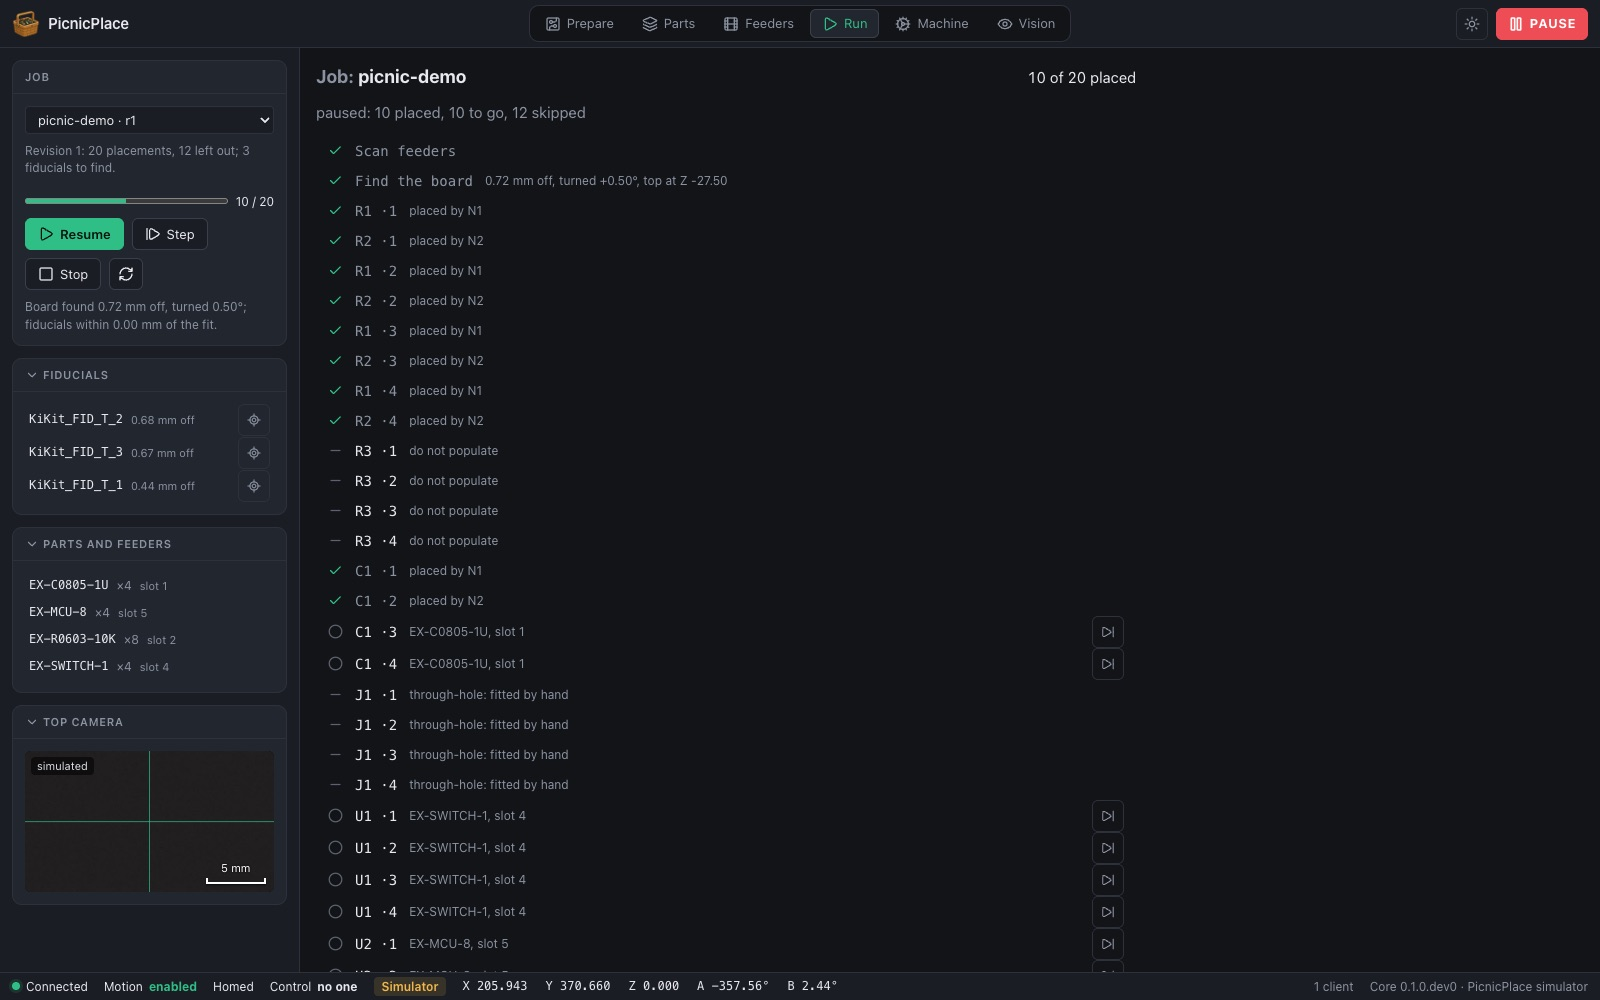
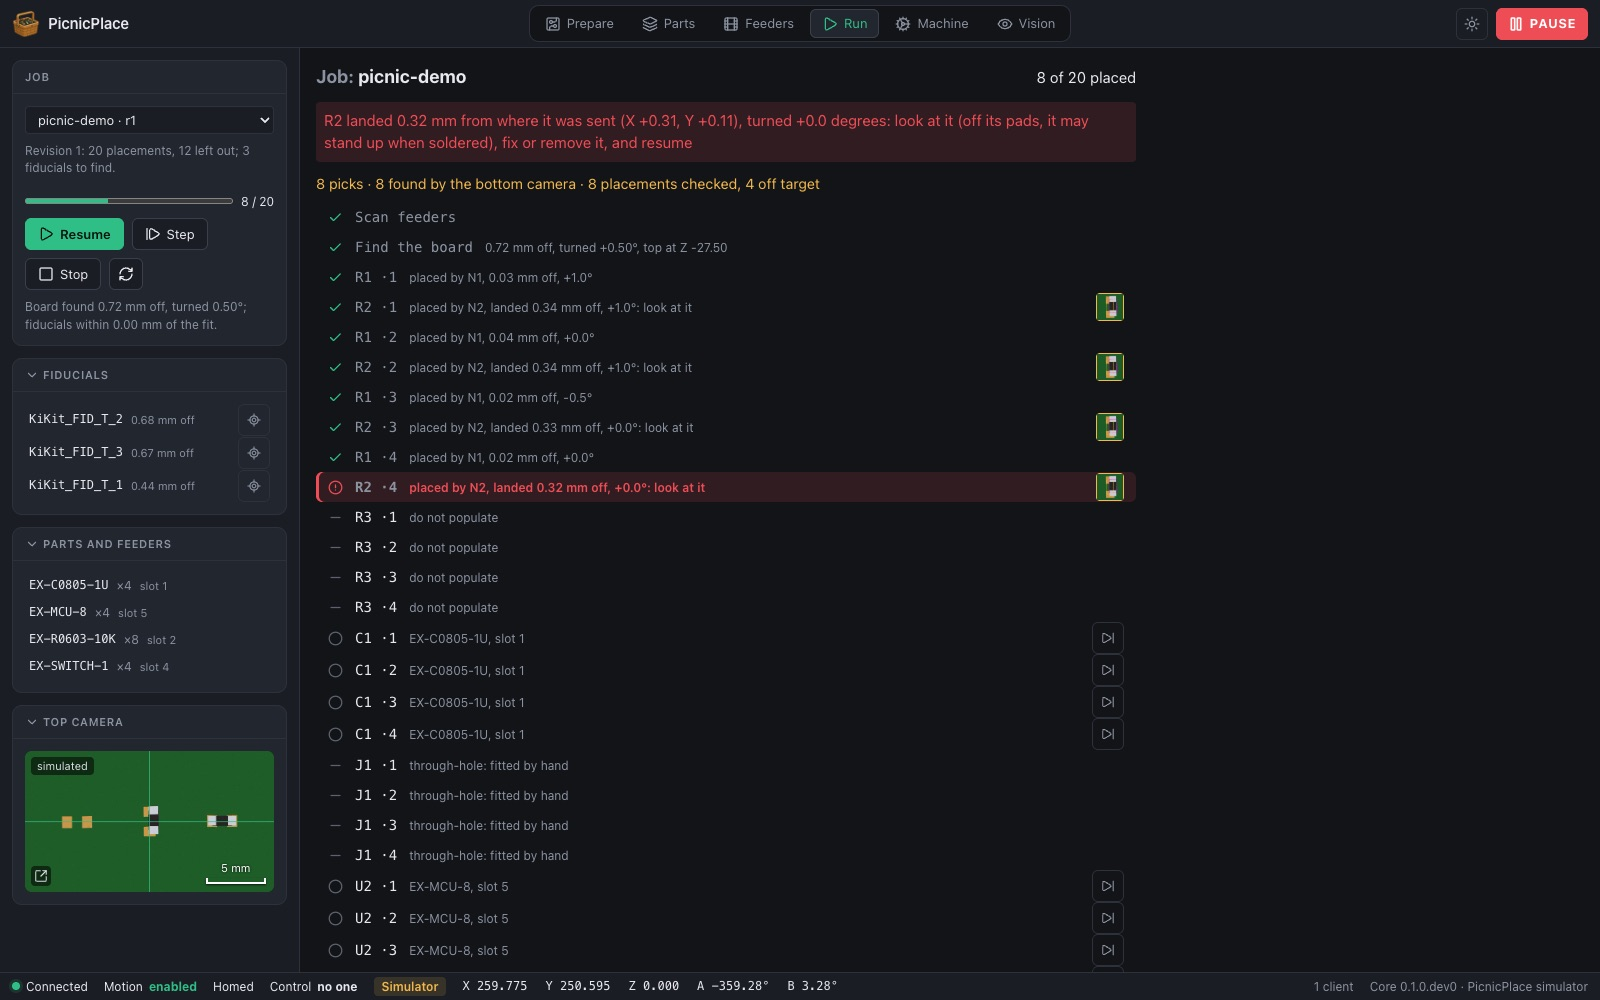
Docs: pictures of training, placement checks, and run statistics
A new picture of the Run workspace, paused on a part the top camera found
off its target, with the run's statistics; the Trained parts panel's
approval step in the bring-up guide; and a real placement check from a
LumenPnP, cropped to the one part. The test board page says which steps of
a test work today.

diff --git a/docs/hardware/test-board.md b/docs/hardware/test-board.md
@@ -75,21 +75,35 @@ top camera's light.
 
 ## A test, step by step
 
-All planned:
+Steps 1, 2 and 5 work today, and step 3 in part; the rest is planned.
 
 1. Lay strips of clear double-sided tape over the targets, and load the board into the
    datum's corner. The tape must be clear, so the camera sees the rings through it, and
    it adds its thickness (about 0.1 mm) to the board's.
-2. Run the test board's job like any other, with its parts on feeders, strips or trays.
-3. **Inspect placements:** the top camera visits each target. In one frame it finds the
-   part's body and the ring around it, and measures the part's offset and turn from the
-   ring. Part and ring are a few millimeters apart in the same image, so neither the
-   gantry's position nor the camera's scale enters the measurement.
-4. The report gives each part's offset and turn, the spread for each nozzle, and how the
-   error depends on the part's angle and its place on the board. It is kept with the run
-   and sent with a flight recording.
+2. Run the test board's job like any other, with its parts on feeders, strips or trays,
+   and **Check each part with the top camera once placed** ticked.
+3. **Inspect placements.** Today, the top camera looks at each two-terminal chip as soon
+   as it is placed and measures how far it landed from where it was sent, and the run
+   pauses on one more than 0.25 mm off or turned more than 10°. That measures from where
+   the machine thinks the target is, so it includes the gantry's and the camera's errors,
+   and across a chip's width it can be some 0.1 mm off, as the part can slide over the
+   pads in the picture. Planned: measuring each part from the copper ring around it. In
+   one frame the camera finds the part's body and the ring, a few millimeters apart, so
+   neither the gantry's position nor the camera's scale enters the measurement, and
+   ICs and QFNs, whose pads the part hides, are measured too.
+4. **The report**, planned: each part's offset and turn, the spread for each nozzle, and
+   how the error depends on the part's angle (the circle of 0603s) and its place on the
+   board, kept with the run and sent with a flight recording. Today the finish message
+   and the Run workspace give the run's statistics: picks, empty picks, parts the bottom
+   camera could not find, placements, and checked placements off target.
 5. Pick the parts up again (or peel off the tape), and the board is ready for the next
    test.
+
+![A real placement check: an 0603 landed 0.35 mm off its target](../images/placement-check-real.jpg){ .pp-screenshot width="300" }
+
+A real check, on a LumenPnP: an 0603 resistor on double-sided tape, where it was sent
+(orange) and where the top camera found it (magenta), 0.35 mm off. The run paused on it,
+and its picture was on its line in the step list.
 
 The simulator will offer the same board, with its parts in the library and on simulated
 feeders, so a test can be tried with no machine.

diff --git a/docs/guide/bring-up.md b/docs/guide/bring-up.md
@@ -284,6 +284,8 @@ effect at once. The reset button next to one forgets it.
       over the part lines up with it, and that pin 1 (red) is where the part's marking
       says, beside it; then **Approve**. From then on, aligning that part uses the light
       and the way of seeing it that held steadiest.
+
+      ![The Trained parts panel: a part waiting for approval, its footprint drawn over it and beside it](../images/studio-trained.jpg){ .pp-screenshot width="300" }
 - [ ] Center the top camera on a spot on the board, click the crosshair button to use
       its position, and **Place**. The part is let go there; the nozzle waits for its
       vacuum to drain before lifting (a small tip that still holds would carry one end
@@ -295,7 +297,7 @@ effect at once. The reset button next to one forgets it.
 
 ## 7. A whole job
 
-![A run of the demo panel, paused halfway](../images/studio-run.jpg){ .pp-screenshot }
+![A run of the demo panel, paused on a part that landed off its target, with its picture on its line](../images/studio-run.jpg){ .pp-screenshot }
 
 - [ ] In the Prepare workspace, import the board (and its panel), use **Find a place**,
       fasten the board where the map shows it, and save the job. Its parts may run to
@@ -322,7 +324,11 @@ effect at once. The reset button next to one forgets it.
       where it was sent in orange and where it landed in magenta. It catches a part off
       its pads, standing up, or gone; across a part's
       width it can be some 0.1 mm off, so it is not a measure of accuracy to a few
-      hundredths.
+      hundredths. At the end, the finish message and the Run workspace give the run's
+      statistics: picks and empty picks, parts the bottom camera could not find,
+      placements, and checked placements off target.
+
+      ![A real check: an 0603 on a LumenPnP, 0.35 mm off its target](../images/placement-check-real.jpg){ .pp-screenshot width="300" }
 - [ ] Tick **Start in step mode** and **Start**: the run scans the feeders (a feeder
       moved since the checks is picked from where it is now), finds the board again,
       and pauses before the first part. After finding the board, a nozzle sniffs its top on

diff --git a/docs/index.md b/docs/index.md
@@ -82,10 +82,12 @@ the demo board from PicnicPlace's tests: a KiKit panel of four.
 
 === "Run"
 
-    ![The Run workspace partway through the demo panel](images/studio-run.jpg){ .pp-screenshot }
+    ![The Run workspace, paused on a part that landed off its target](images/studio-run.jpg){ .pp-screenshot }
     /// caption
-    A run, paused halfway: the board found by its fiducials, each placement checked off
-    with the nozzle that placed it, and the parts left out and why.
+    A run in the simulator, with one nozzle made to drop its parts 0.3 mm off: each part
+    is checked with the top camera once placed, the run pauses on one off its target, and
+    its picture is on its line. Above, the run's statistics; below, the parts left out and
+    why.
     ///
 
 ## Why PicnicPlace
